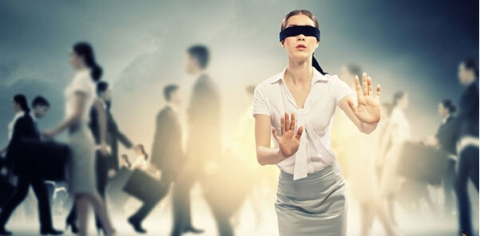
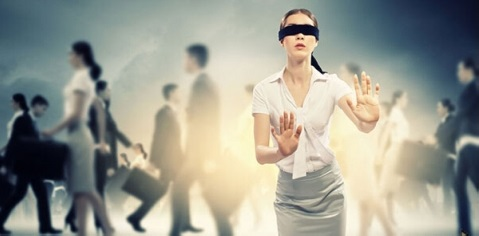
把所有用到的图片转成webp格式，减少页面初次加载的时间

diff --git a/themes/jacman/source/fancybox/jquery.fancybox.css b/themes/jacman/source/fancybox/jquery.fancybox.css
@@ -76,7 +76,7 @@
 }
 
 #fancybox-loading, .fancybox-close, .fancybox-prev span, .fancybox-next span {
-	background-image: url(fancybox_sprite.png);
+	background-image: url(fancybox_sprite.webp);
 }
 
 #fancybox-loading {
@@ -183,7 +183,7 @@
 	overflow: hidden;
 	display: none;
 	z-index: 8010;
-	background: url(fancybox_overlay.png);
+	background: url(fancybox_overlay.webp);
 }
 
 .fancybox-overlay-fixed {
@@ -262,7 +262,7 @@
 	   only screen and (min-device-pixel-ratio: 1.5){
 
 	#fancybox-loading, .fancybox-close, .fancybox-prev span, .fancybox-next span {
-		background-image: url(fancybox_sprite@2x.png);
+		background-image: url(fancybox_sprite@2x.webp);
 		background-size: 44px 152px; /*The size of the normal image, half the size of the hi-res image*/
 	}
 

diff --git a/themes/jacman/source/fancybox/helpers/jquery.fancybox-buttons.css b/themes/jacman/source/fancybox/helpers/jquery.fancybox-buttons.css
@@ -47,7 +47,7 @@
 	height: 30px;
 	text-indent: -9999px;
 	background-color: transparent;
-	background-image: url('fancybox_buttons.png');
+	background-image: url('fancybox_buttons.webp');
 	background-repeat: no-repeat;
 	outline: none;
 	opacity: 0.8;

diff --git a/source/404.html b/source/404.html
@@ -57,7 +57,7 @@ body{
  <div class="wrap">
 	<div class="logo">
 			<p>OOPS! - Could not Find it</p>
-			<img src="/404.png">
+			<img src="/404.webp">
 			<div class="sub">
 			  <p><a href="/">返回首页 </a></p>
 			</div>

diff --git a/source/_posts/adt-add-library-bug.md b/source/_posts/adt-add-library-bug.md
@@ -5,7 +5,7 @@ categories: programing
 ---
 # 问题出现
 今天在Windows里使用 Cocos-Quick 创建的项目在使用ADT往Android里面部署的时候遇到了下面的问题
-{% img /images/20160420/adt_add_library_bug.png %}
+{% img /images/20160420/adt_add_library_bug.webp %}
 
 出现上图的情况是这样的操作步骤：
 1. 添加 D:\Tools\Quick-Cocos2dx-Community\cocos\platform\android\java 到 Library 引用里
@@ -19,6 +19,6 @@ categories: programing
 
 终于发现了解决这个BUG的办法：*** 将项目和想要引用的Library放在同一个分区内 ***
 遂将项目和 Quick 放到同一个分区内后问题解决，效果如下：
-{% img /images/20160420/adt_add_library_bug_ok.png %}
+{% img /images/20160420/adt_add_library_bug_ok.webp %}
 
 引起这个错误的原因是：*** Eclipse 本身并不是给Windows 这种多分区系统定制的，本身是用来给 MAC 或者 Linux 这种以目录为结构的系统使用的 ***

diff --git a/source/_posts/fix-scoop-pwsh-vscode.md b/source/_posts/fix-scoop-pwsh-vscode.md
@@ -16,7 +16,7 @@ scoop install pwsh
 ```
 
 发现在 **VSCode** 的 **Terminal Shells** 列表里面依然看不到新安装的 **PowerShell Core**
-![VSCode Terminal Shells](/images/2021/03/vscode-terminal-shells.png)
+![VSCode Terminal Shells](/images/2021/03/vscode-terminal-shells.webp)
 
 但我又不想使用默认的 PowerShell 或者 cmd 当我的 Shell
 这时就可以这样配置：
@@ -38,7 +38,7 @@ scoop install pwsh
 3. 重新运行 **VSCode**
 
 可以看到我们 **VSCode** 已经使用了 **PowerShell Core** 作为默认 **Terminal Shells** 了
-![VSCode Default Terminal Shell](/images/2021/03/vscode-default-pwsh.png)
+![VSCode Default Terminal Shell](/images/2021/03/vscode-default-pwsh.webp)
 
 参考文献：
 > [Quick Start · lukesampson/scoop Wiki](https://github.com/lukesampson/scoop/wiki/Quick-Start)

diff --git a/source/_posts/uninstall-hexo-prism-plugin.md b/source/_posts/uninstall-hexo-prism-plugin.md
@@ -6,10 +6,10 @@ categories:
   - notices
 ---
 最近用 **Github** 比较频繁，无意间点开 **GitHub Pages** 的代码库时发现一个大大的 **Dependabot alerts** 顶在上面
-![](/images/2021/03/github-dependabot-alerts.png)
+![](/images/2021/03/github-dependabot-alerts.webp)
 
 点开后发现最大的一个警告就是这个：
-![](/images/2021/03/highlightjs-alerts.png)
+![](/images/2021/03/highlightjs-alerts.webp)
 
 顺着这个 **dependencies** 一路追查发现是 **hexo-prism-plugin** 这个插件使用的
 由于该插件太久没更新，而且发现 [hexo.io](https://hexo.io) 最新版本已经集成了 **prism** 的代码高亮功能

diff --git a/source/_posts/back-ubuntu-12-desktop-gnome.md b/source/_posts/back-ubuntu-12-desktop-gnome.md
@@ -22,9 +22,9 @@ sudo apt-get install gnome-session-fallback
 # 设置
 下面就是设置了，登出当前用户后进行以下步骤：
 1. 在登录用户界面选用户名右边的配置按钮
-![gnome设置第一步](/wp-content/uploads/2013/03/login1.png)
+![gnome设置第一步](/wp-content/uploads/2013/03/login1.webp)
 2. 选择“GNOME Classic”
-![gnome设置第二步](/wp-content/uploads/2013/03/login2.png)
+![gnome设置第二步](/wp-content/uploads/2013/03/login2.webp)
 
 现在，输入密码登录看看，是不是已经是熟悉的gnome界面了呢。至此，打完收工。
 (o≖◡≖)

diff --git a/source/disappear/index.md b/source/disappear/index.md
@@ -1,7 +1,7 @@
 title: 慢慢的，就没有了，就像从未存在过
 date: 2015-08-04 17:34:00
 ---
-<center> {% img /disappear/disappear.jpg %} </center>
+<center> {% img /disappear/disappear.webp %} </center>
 　　几年以前，我曾经嘲笑过某科技界大佬。当时他说：也许90后、95后会慢慢不知道谷歌是什么网站。
 
 　　那一年，这对于我来说简直就是世界上最好笑的笑话。谷歌，全世界最卓越的互联网公司，活在互联网的一代中国人，会不知道他们的网站？

diff --git a/source/_posts/compile-can-not-found-smp-lock-h.md b/source/_posts/compile-can-not-found-smp-lock-h.md
@@ -10,7 +10,7 @@ categories:
 date: 2013-06-01 13:07:20
 ---
 
-<center>{% img /wp-content/uploads/2013/06/linux_kernel.jpg %}</center>
+<center>{% img /wp-content/uploads/2013/06/linux_kernel.webp %}</center>
 项目中有个驱动代码之前在老版本linux系统中编写的
 在移植到**linux-kernel-3.2.0** 后，编译时出现一处错误 **fatal error: linux/smp_lock.h: No such file or directory**
 

diff --git a/source/_posts/favicon-from-pics.md b/source/_posts/favicon-from-pics.md
@@ -9,7 +9,7 @@ categories:
 date: 2012-03-18 20:34:12
 ---
 
-<center>{% img /wp-content/uploads/2012/03/favicon.jpg "FavIcon from Pics" %}</center>
+<center>{% img /wp-content/uploads/2012/03/favicon.webp "FavIcon from Pics" %}</center>
 一个可以在线生成网站favicon图标的网站
 
 网站地址：[http://www.chami.com/html-kit/services/favicon/](http://www.chami.com/html-kit/services/favicon/)

diff --git a/source/_posts/web-mud-client.md b/source/_posts/web-mud-client.md
@@ -8,7 +8,7 @@ categories:
 date: 2012-03-22 23:48:35
 ---
 
-<center>{% img /images/webmud_1_0.png %}</center>
+<center>{% img /images/webmud_1_0.webp %}</center>
 
 **为一个元老级的MUD游戏开发的一个PC客户端。利用业余时间完成（主要是这阵子要钻研一个很有技术难度的工作，整天要对着封包一个字节一个字节比对，头疼的厉害。）。**
 

diff --git a/source/_posts/fix-win7-vs2010-no-recents.md b/source/_posts/fix-win7-vs2010-no-recents.md
@@ -8,7 +8,7 @@ categories:
 date: 2012-04-07 06:39:59
 ---
 
-<center>{% img /wp-content/uploads/2012/04/VS2010StartPage.png %}</center>
+<center>{% img /wp-content/uploads/2012/04/VS2010StartPage.webp %}</center>
 
 最近因为一些原因开始使用Win7 x64系统。
 而使用VS2010的时候发现文件菜单里面竟然没有 **最近使用的项目和解决方案** 这一项。
